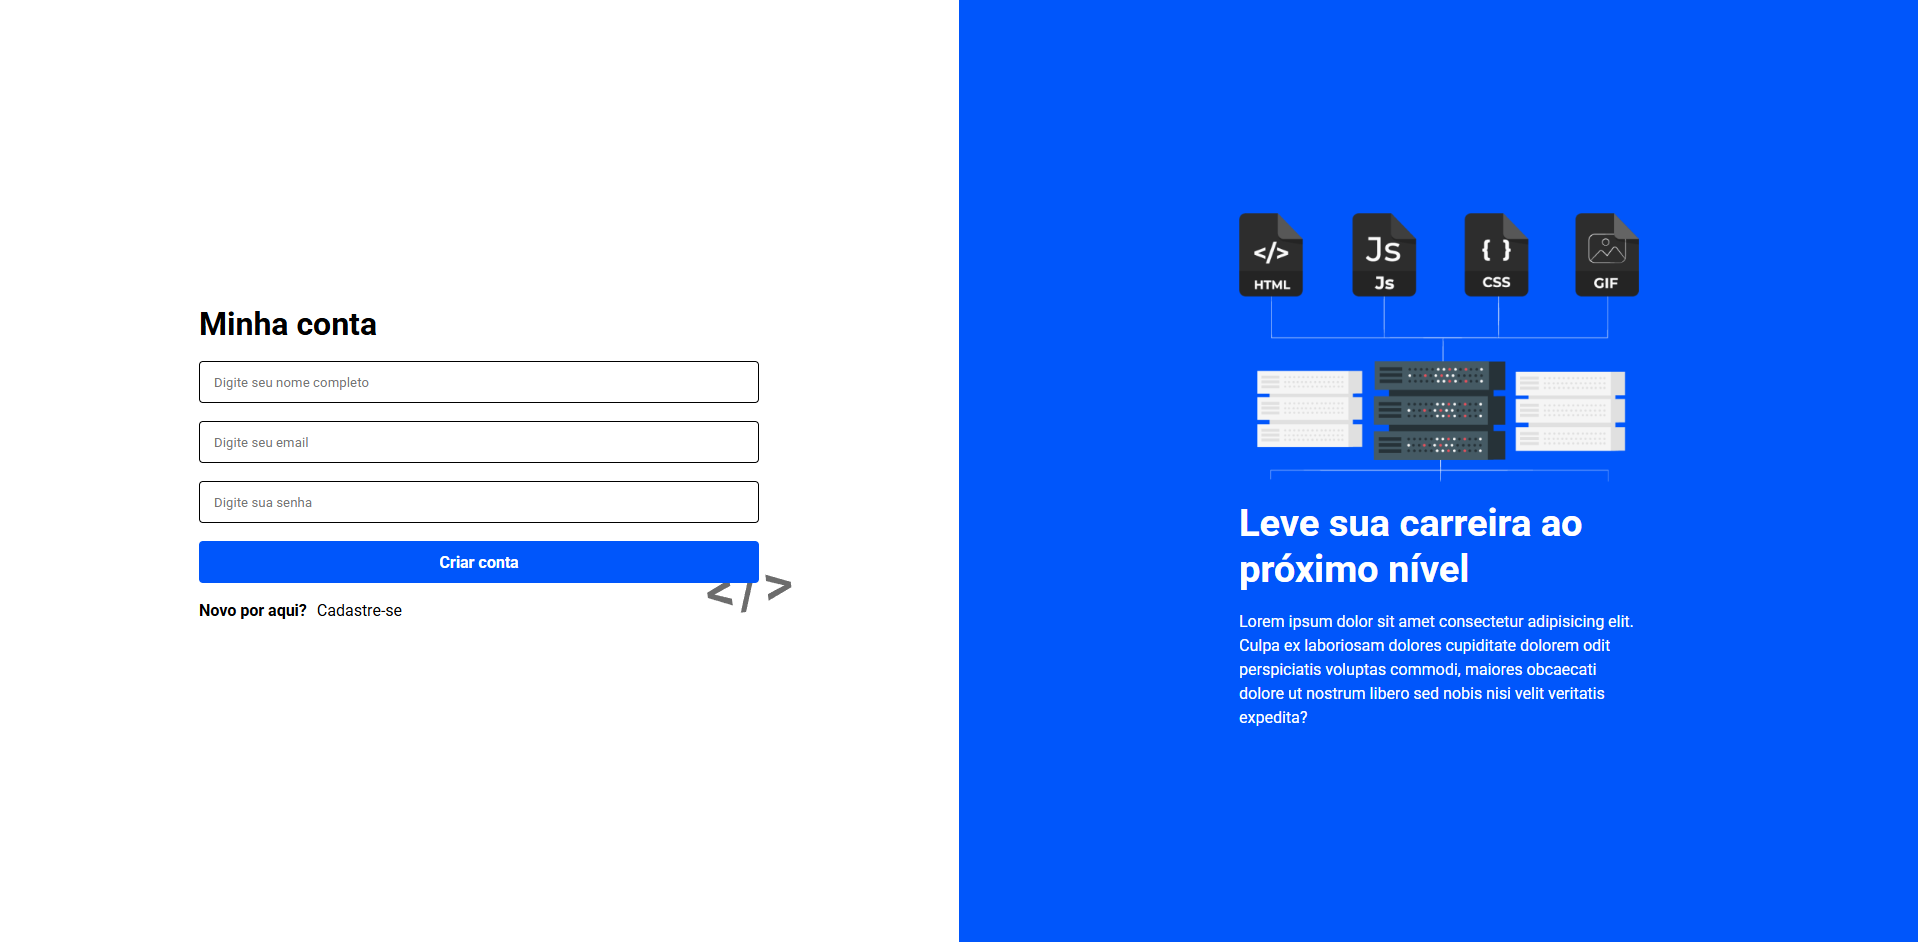
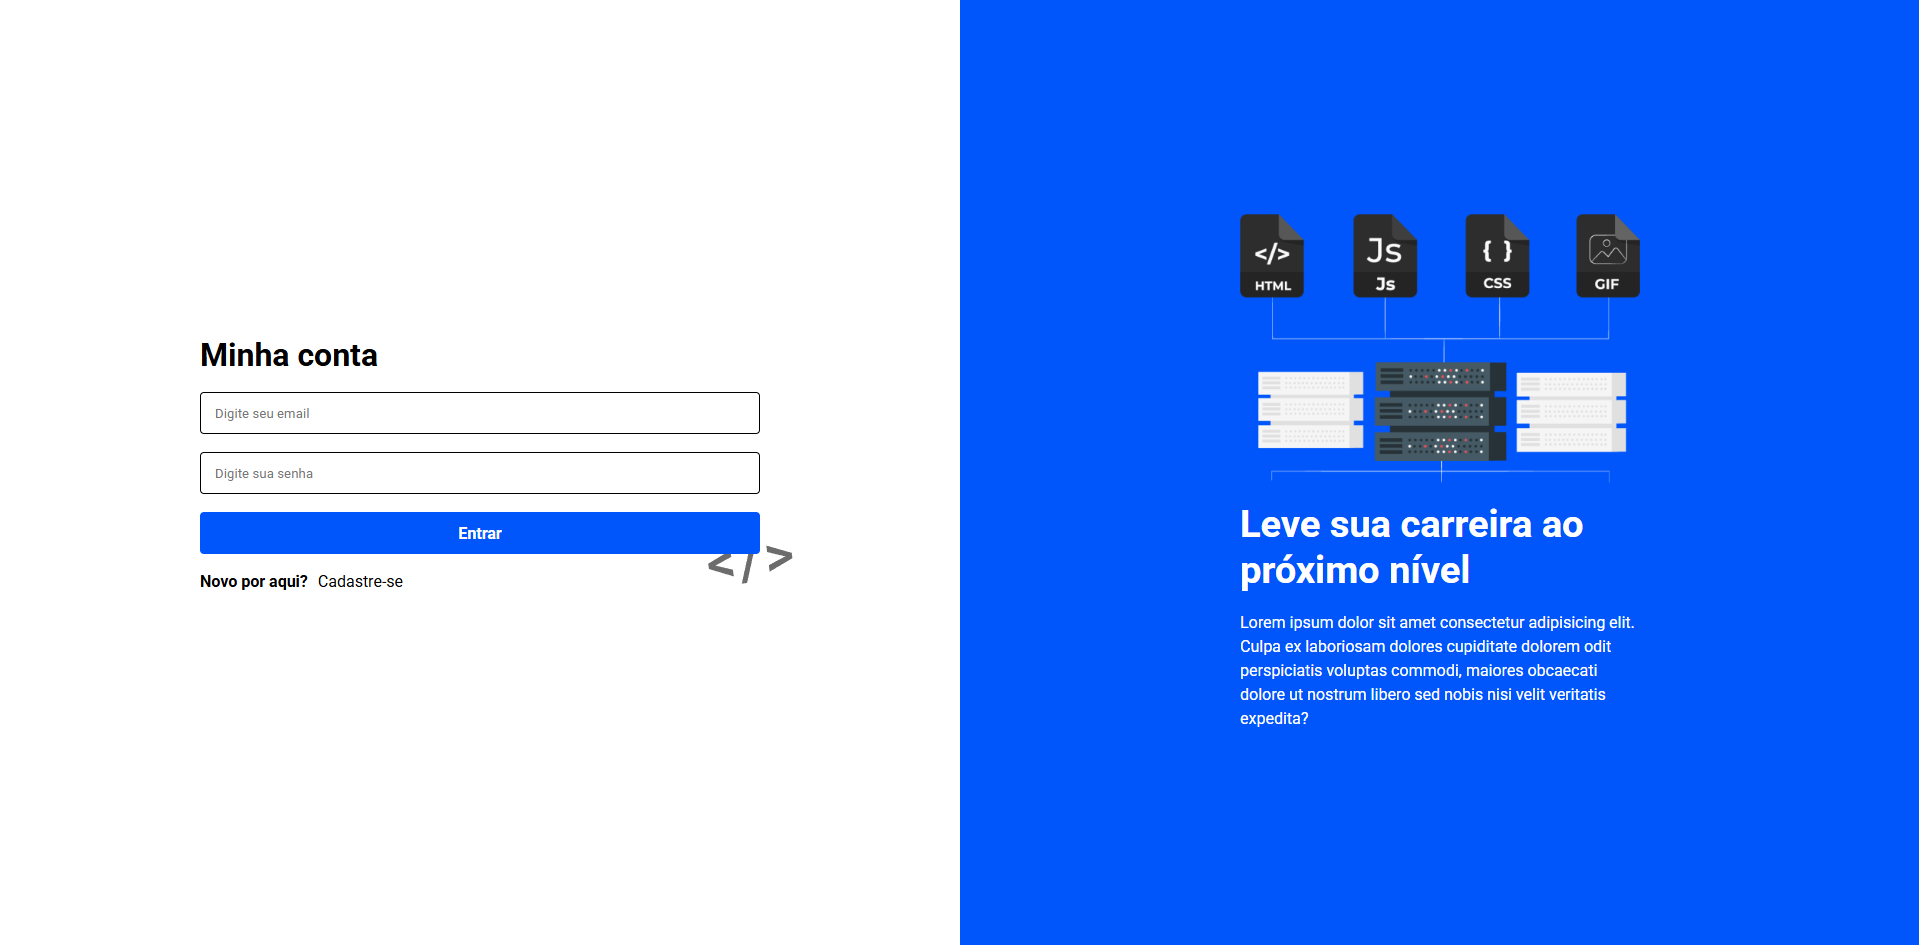
docs: changing images

diff --git a/README.md b/README.md
@@ -6,7 +6,7 @@ Uma interface moderna, responsiva e clean para sistemas de autenticação (Sign 
 
 ## Demonstração
 
-| Tela de Login (Minha Conta) | Tela de Registro (Nova Conta) |
+| Tela de Login (Minha Conta) | Tela de Cadastro (Nova Conta) |
 | :---: | :---: |
 | ![Minha Conta](assets/sign-in.png) | ![Nova Conta](assets/sign-up.png) |
 
